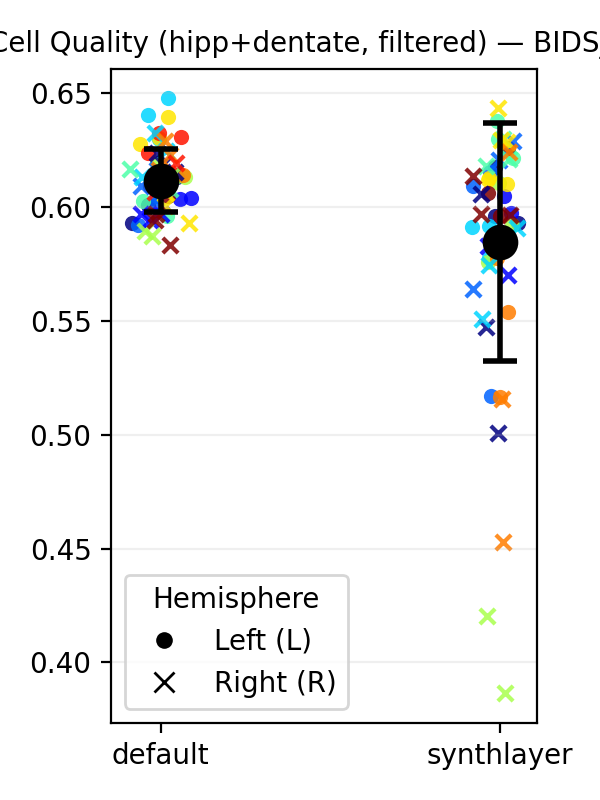
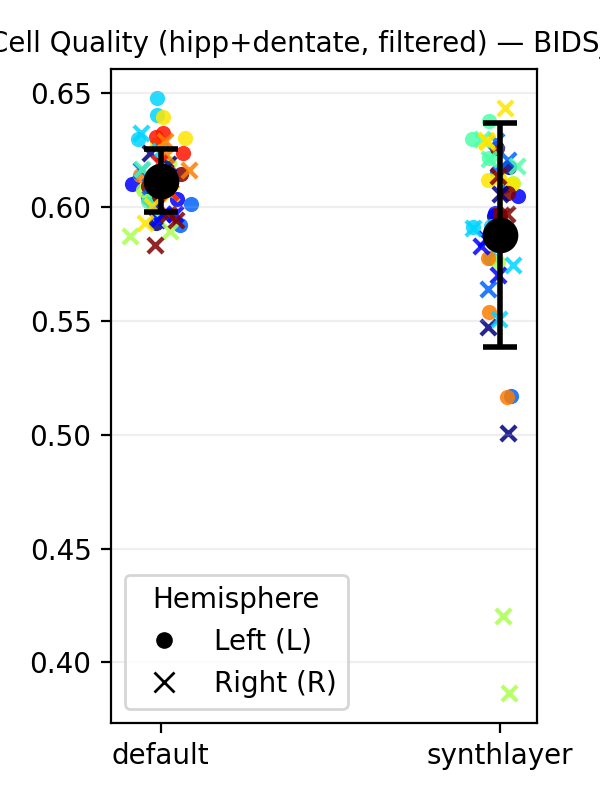
fixed consistency threshold issue

diff --git a/v1-v2_comp/synth-comparison.py b/v1-v2_comp/synth-comparison.py
@@ -496,12 +496,9 @@ for dataset in DATASETS:
     # ========================
     if not df_cons.empty:
         grp = (df_cons.groupby(["version", "hemi", "subject_id"], as_index=False)["consistency"]
-                    .mean()
+                    .min()
                     .rename(columns={"consistency": "consistency_mean"}))
-        grp2 = (df_ident.groupby(["version", "hemi", "subject_id"], as_index=False)["identifiability"]
-                    .mean()
-                    .rename(columns={"identifiability": "identifiability_mean"}))
-        good = grp[((grp["consistency_mean"] >= CONSISTENCY_THRESHOLD) | (grp2["identifiability_mean"] >= 0.5))]
+        good = grp[grp["consistency_mean"] >= CONSISTENCY_THRESHOLD]
         bad = grp[grp["consistency_mean"] < CONSISTENCY_THRESHOLD]
         print(f"Mean consistency filtering @ {CONSISTENCY_THRESHOLD:.2f}")
         print(f"  Good groups (kept): {len(good)} | Bad groups (excluded): {len(bad)}")
